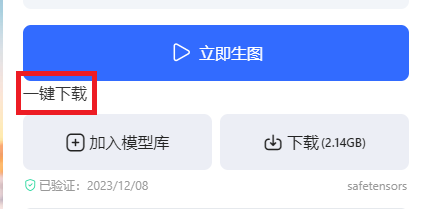
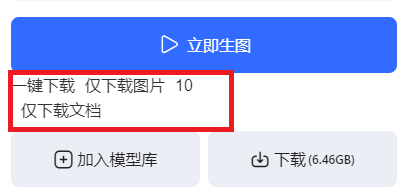
Update readme.

diff --git a/README.md b/README.md
@@ -1,35 +1,28 @@
 # LiblibAiHelper
-A Tampermonkey script to download Liblib model and its readme, preview by one click.
 
-首先说，我不会JS。所有代码都是NewBing写的，我只是微调。
+### 首先说，我不会JS。所有代码都是NewBing写的，我只是微调。欢迎各位大佬指教和改进，我是真的对JS一窍不通。
 
-这个项目的缘由是因为我经常使用
+## 前言
 
-> Civitai网站辅助：https://greasyfork.org/zh-CN/scripts/460557-civitai%E7%BD%91%E7%AB%99%E8%BE%85%E5%8A%A9
+使用过Stable Diffusion WebUI的用户都知道，只下载模型文件是不方便管理的。
+最好的做法是将一个同名的txt文件和图片文件和该模型放在同一个目录下，这样在选择模型时就可以看到预览图及它的使用说明。
 
-来从C站下载模型。这个脚本会将模型，预览图和说明一并下载，非常方便。配合一系列脚本，用起来非常舒服。详见这篇文章：
+但是手工做这件事太麻烦了。特别是对于仓鼠病的人来说，下载几千个模型，手动保存图片和说明简直是一种折磨。
+所以，在C站下载模型时，我使用了[Civitai网站辅助](https://greasyfork.org/zh-CN/scripts/460557-civitai%E7%BD%91%E7%AB%99%E8%BE%85%E5%8A%A9) 。
+它帮助我下载了近1.5T的模型。再配合一系列脚本和管理方法，用起来非常舒服（详见这篇文章：[StableDiffusion模型下载管理最佳实践一条龙](https://zhuanlan.zhihu.com/p/638650568) ）。
 
-> StableDiffusion模型下载管理最佳实践一条龙：https://zhuanlan.zhihu.com/p/638650568
+然而从最近的趋势来看，L站的模型更新更快，更精美，更符合我的XP。无奈L站并没有一个像Civitai网站辅助一样的工具，所以我之前几乎没有使用L站资源。
 
-由于Liblib一直没找到类似的工具，所以我几乎没有使用L站资源。
+我不能一直逃避下去，当然手工操作是更不可能的，于是我在GPT的帮助下，写出了这一个脚本。
 
-然而从最近的趋势来看，L站的模型更新更快，更精美，更符合我的XP。我不能一直逃避下去，因此，在NewBing的帮助下，我写了这个脚本。
+这个脚本和Civitai网站辅助类似，可以在下载模型的同时下载它的预览图和保存它的说明文档（txt + HTML）。同时，我还额外保存了该模型的链接。
 
-油猴用法不多说，大家都懂。使用后会在“立即生图”下增加一个“一键下载”按钮（群众：你TM把这叫按钮？），点击即可。
+## 安装方法
 
-![download_button_pos.png](doc/download_button_pos.png)
+油猴脚本需要先安装油猴插件，然后将script.txt中代码复制进去。
+或者更简单的方法，从 [这里](https://greasyfork.org/zh-CN/scripts/482082-liblibai-helper) 直接安装。
 
-已知的缺陷是：由于浏览器隐私政策，脚本中无法得到下载的文件名。因此我只能将标题当作模型名。
-
-因此我想把它转成Chrome插件，因为GPT告诉我Chrome的插件可以支持该功能。结果转换之后发现Manifest V3在2023年把该功能废弃了。气。
-
-后来我使用标题+Tab的方式决定文件名，没想到居然能对上，现在可以说没什么毛病了。
-
-欢迎各位大佬指教和改进，我是真的对JS一窍不通。
-
-------------------------------------------------------------------------------------------------------------------------
-
-为方便大家使用，我将油猴脚本转换为chrome脚本，放在chrome目录下。用法如下：
+由于油猴脚本对新用户不友好，所以我也将该脚本转换为Chrome插件，安装很简单：
 
 在浏览器地址栏中输入：chrome://extensions/
 
@@ -39,11 +32,31 @@ A Tampermonkey script to download Liblib model and its readme, preview by one cl
 
 理论上这个插件也能用在Edge上。
 
-------------------------------------------------------------------------------------------------------------------------
+## 使用方法
 
-20201214更新：修复了下载图片的BUG，增加了选项和功能，可以仅下载图片或文档，并且能指定下载图片的数量。
-20201214更新：修复了识别活动Tab的BUG，并为Chrome插件增加File name sanitizer，以防止模型名中带有特殊字符导致下载出错。
+当进入L站的模型下载页面里，该脚本会在“立即生图”按钮下增加三个按钮和一个数字选择框。
 
-------------------------------------------------------------------------------------------------------------------------
+![download_button_pos.png](doc/download_button_pos.png)
 
-温馨提示：如果打开的页面没有出现一键下载按钮，请刷新该页面。
++ 点击“一键下载”，可以同时下载模型，预览图和说明文档。
+
++ 点击“仅下载图片”或“仅下载文档”可以单独下载对应内容。
+
++ 数字选择框用来设置下载预览图的数量限制，默认为10。
+
+一些Tips：
+
++ 如果页面没有出现上面的控件，可以按F5或点击刷新，重新加载网页。
+
++ 点击按钮后，请停留在该页面和当前版本的Tab上一段时间，以便让脚本执行完所有操作。
+
++ 由于浏览器隐私政策，脚本中无法得到下载的文件名，因此我只能将 **模型标题 + "_" + 版本Tab标题** 作为文件名。从结果来看正好与模型的名字一致。
+
+## 更新历史
+
+> 20201214上午更新：修复了下载图片的BUG，增加了选项和功能，可以仅下载图片或文档，并且能指定下载图片的数量。
+
+> 20201214下午更新：修复了识别活动Tab的BUG，并为Chrome插件增加File name sanitizer，以防止模型名中带有特殊字符导致下载出错。
+
+因为我不会JS，并且代码更改需要在油猴和Chrome上分别更新代码和测试，会耗费大量时间。所以原则上能用就不会更新。
+
